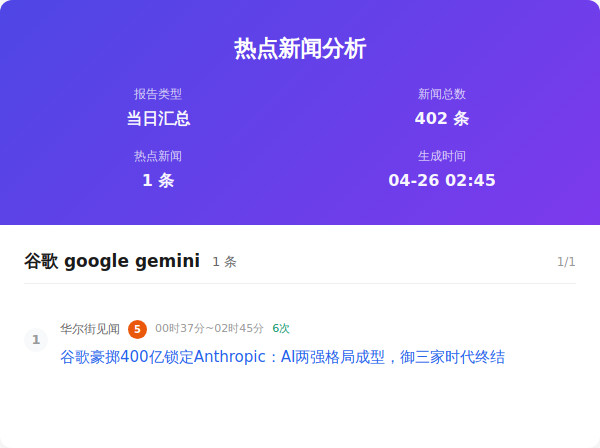
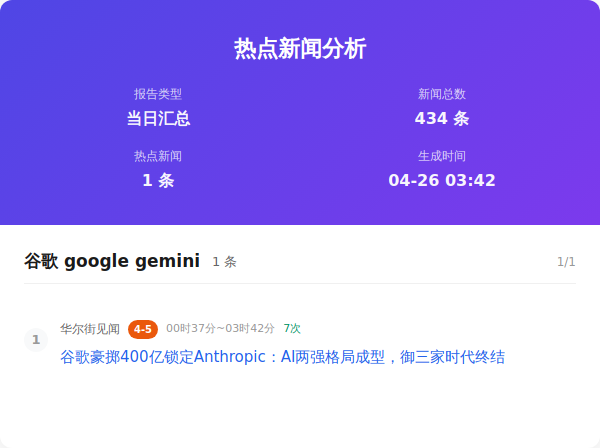
Auto update by GitHub Actions at Sun Apr 26 03:42:43 CST 2026

Changed region(s): [[0.21, 0.7188, 0.51, 0.7812], [0.69, 0.25, 0.75, 0.2812], [0.81, 0.375, 0.84, 0.4062]]

diff --git a/output/2026年04月26日/html/当日汇总.html b/output/2026年04月26日/html/当日汇总.html
@@ -357,7 +357,7 @@
                     </div>
                     <div class="info-item">
                         <span class="info-label">新闻总数</span>
-                        <span class="info-value">402 条</span>
+                        <span class="info-value">434 条</span>
                     </div>
                     <div class="info-item">
                         <span class="info-label">热点新闻</span>
@@ -365,7 +365,7 @@
                     </div>
                     <div class="info-item">
                         <span class="info-label">生成时间</span>
-                        <span class="info-value">04-26 02:45</span>
+                        <span class="info-value">04-26 03:42</span>
                     </div>
                 </div>
             </div>
@@ -383,7 +383,7 @@
                         <div class="news-number">1</div>
                         <div class="news-content">
                             <div class="news-header">
-                                <span class="source-name">华尔街见闻</span><span class="rank-num high">5</span><span class="time-info">00时37分~02时45分</span><span class="count-info">6次</span>
+                                <span class="source-name">华尔街见闻</span><span class="rank-num high">4-5</span><span class="time-info">00时37分~03时42分</span><span class="count-info">7次</span>
                             </div>
                             <div class="news-title"><a href="https://wallstreetcn.com/articles/3770859" target="_blank" class="news-link">谷歌豪掷400亿锁定Anthropic：AI两强格局成型，御三家时代终结</a>
                             </div>